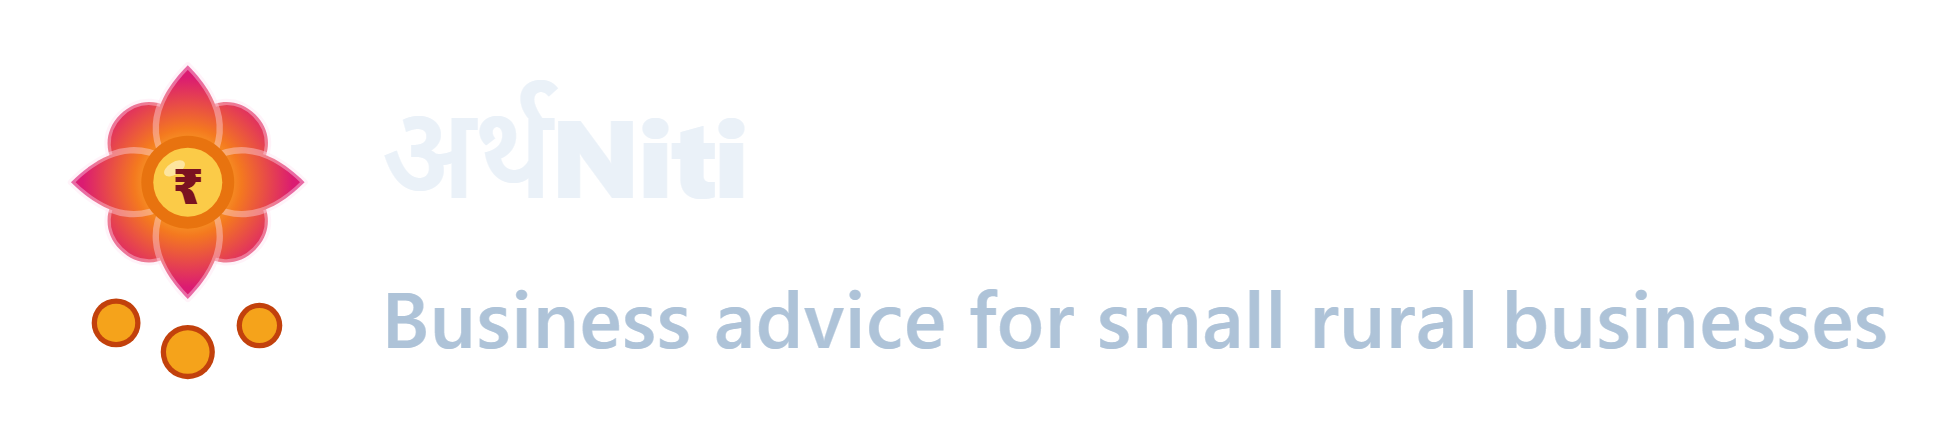
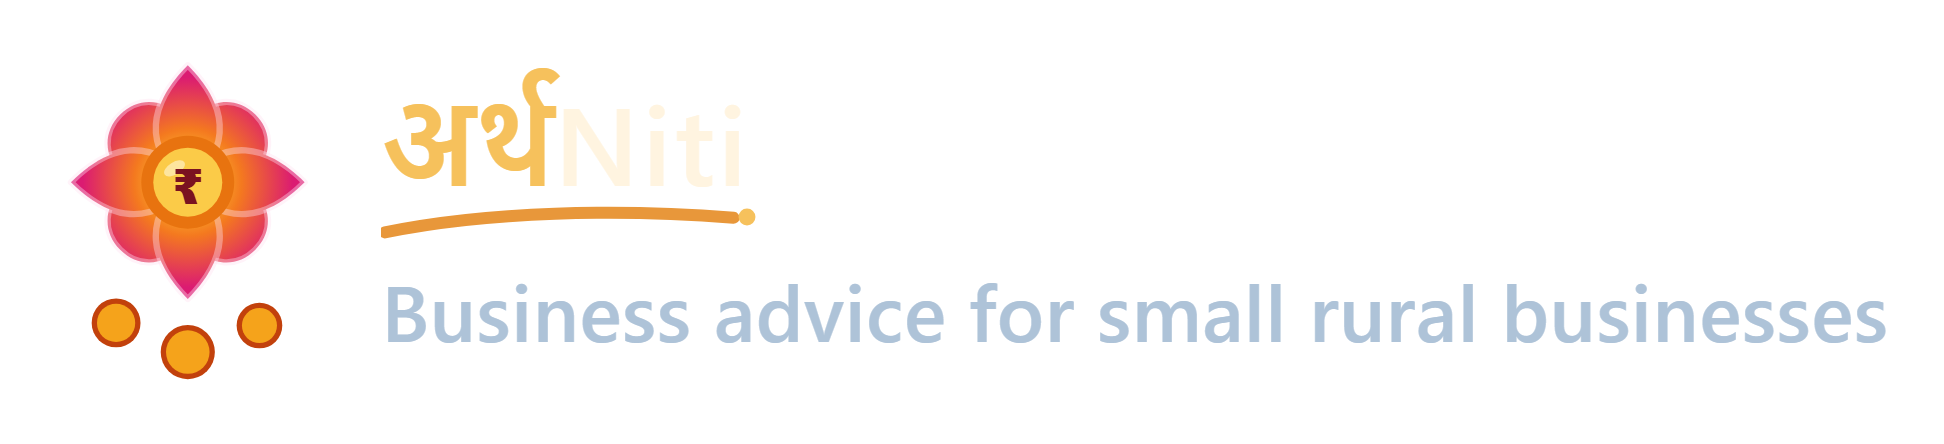
chore(brand): the owner's brand-asset files from 13 Sept
The brand-asset changes dated 13 Sept 2026, kept in their own commit so they
stay out of the others: tools/assetgen.mjs, frontend/src/assets/README.md, the
two regenerated lockups and the two arthniti-wordmark-on-*.png files.

Nothing else changes. With this commit the tree is the project as it stood at
8:03 AM ET on 26 Oct 2026, before any hackathon edit (867 tests in 38 files).

diff --git a/frontend/src/assets/README.md b/frontend/src/assets/README.md
@@ -45,7 +45,9 @@ tidiness.
 | `brand/arthniti-mark-dark-1024.png` | 1024×1329, transparent | dark posters |
 | `brand/arthniti-lockup-on-light.png` | 1949px wide, transparent — mark + name + tagline | a title slide on white |
 | `brand/arthniti-lockup-on-dark.png` | 1949px wide, transparent — same, light ink | a title slide on navy |
-| `brand/arthniti-wordmark-on-navy.png` | 1391px wide, on a `#08243F` plate | a header strip, a footer band |
+| `brand/arthniti-wordmark-on-light.png` | 2617×1251, transparent — dark ink on nothing | white or light slides, docs, print |
+| `brand/arthniti-wordmark-on-dark.png` | 2617×1251, transparent — warm light ink | dark slides, a navy band |
+| `brand/arthniti-wordmark-on-navy.png` | 1391px wide, on a `#08243F` plate | **superseded 13 Sept 2026** — see below |
 | `hero-backdrop.jpeg` | 735×386 — **a copy of the live backdrop** | showing the landing page in the deck |
 | `hero.png` | 343×361 | **nothing — see "Stale" below** |
 
@@ -98,22 +100,44 @@ inline swoosh, and that is **deliberately live text rather than an image** — i
 takes its colours from tokens, scales with `--ui-scale`, is read aloud by a
 screen reader, and does not blur on a projector.
 
-The PNG here exists because a deck is not the app. Its spec, if you need to set
-it by hand:
+The PNGs here exist because a deck is not the app. **There are two of them, one
+per colour case, and both are transparent.** Its spec, if you need to set it by
+hand:
 
 ```
 family          "Noto Sans", Inter, ui-sans-serif, system-ui, "Segoe UI", sans-serif
-अर्थ             #F6C15C   weight 800   no letter-spacing
-Niti            #FFF4E0   weight 500   letter-spacing 0.03em
-swoosh + dot    #E8973A / #F6C15C
-plate           #08243F
+                (inherited — there is no @font-face and no webfont link, so
+                 Devanagari resolves to whatever the machine has; Nirmala UI here)
+अर्थ             weight 800   no letter-spacing    light case #8A5A0A   dark case #F6C15C
+Niti            weight 500   letter-spacing 0.03em             #12233A             #FFF4E0
+swoosh          stroke-width 2 CSS px, round cap               #B86F10             #E8973A
+dot             r 2.2 in a 100x9 viewBox                       #8A5A0A             #F6C15C
+plate           none — see below
 ```
 
-Two notes that are easy to get wrong. The letter-spacing is on the **Latin half
-only** — applying it to the whole name spaces out the Devanagari grapheme
-clusters and pulls the र्थ conjunct apart. And the navy plate is **not
-optional**: `Niti` is a cream `#FFF4E0`, which is invisible on white. The utility
-strip is `#08243F` in *both* themes, which is why one file covers both.
+Three notes that are easy to get wrong.
+
+The letter-spacing is on the **Latin half only** — applying it to the whole name
+spaces out the Devanagari grapheme clusters and pulls the र्थ conjunct apart.
+
+**There is no plate any more, and the reason the old one existed is now the reason
+there are two files.** This section used to say a navy plate was *not optional*,
+because `Niti` was a cream `#FFF4E0` that is invisible on white and the utility
+strip the wordmark lived in was `#08243F` in *both* themes, so one file covered
+both. Every clause of that died on 11 Sept 2026 when the wordmark moved into the
+masthead: it sits on `var(--color-surface)` now, which flips, so the tokens gained
+a **light case** (`#8A5A0A` / `#12233A` / `#B86F10`) that is dark-on-light and
+needs no plate at all — and the two themes stopped sharing one rendering. Hence
+two transparent files. A dark slide *is* the plate for the dark case.
+`brand/arthniti-wordmark-on-navy.png` is the last plated export; it is kept so an
+older deck still resolves, and nothing should use it in a new one.
+
+**Do not scale the wordmark by raising `font-size`.** `.ui-wordmark-swoosh` is
+`height: 0.36rem; width: 100%` — tied to the **root** font size, not to the
+wordmark's own. So enlarging the name widens its box while the swoosh's stays
+5.76px tall, and the `viewBox="0 0 100 9"` under `preserveAspectRatio="none"`
+stretches non-uniformly: the curve flattens and the `r="2.2"` bead becomes an
+ellipse. Leave the CSS geometry at the shipped size and raise the *capture* scale.
 
 **The app loads no webfont.** It relies on Noto Sans being installed, falling
 back to Inter and then the system UI font. So on a laptop without Noto Sans the
@@ -170,7 +194,7 @@ cd frontend && npm run dev          # the lockup and wordmark come from the live
 node tools/assetgen.mjs       # from the repo root
 ```
 
-It produces the seven PNGs from **two different sources on purpose**:
+It produces the eight PNGs from **two different sources on purpose**:
 
 - The **mark** is rasterised from the two standalone SVGs in `brand/`. Going
   through the shipped file rather than through the React component is the point:
@@ -183,17 +207,36 @@ It produces the seven PNGs from **two different sources on purpose**:
   mean guessing at font metrics, and they would drift from the masthead the
   moment a token moved. Capturing the real thing cannot drift.
 
-If you have to redo it without the script: screenshot `.ui-brand` in the masthead
-at a high device-pixel ratio for the lockup, and `.ui-wordmark` — which is the
-masthead's product name as of 11 Sept 2026, having moved there from the utility
-strip — for the wordmark on its own. Two things that went wrong the first time and will again:
+If you have to redo it without the script: with `Emulation.setDefaultBackgroundColorOverride`
+at alpha 0, and every chrome surface (`html`, `body`, `.ui-shell`, `.ui-utilitybar`,
+`.ui-masthead`, `.ui-masthead-inner`, `.ui-brand`, `.ui-tricolour`, `.ui-topbar`,
+`.ui-navbar`, `.ui-breadcrumb`) forced to `background: transparent !important;
+border-color: transparent !important; box-shadow: none !important`, clip
+`Page.captureScreenshot` to **`.ui-brand`'s own box** for the lockup and to
+**`.ui-wordmark`'s own box** for the wordmark, once per theme. Four things that
+went wrong and will again:
 
+- **Clip to the element's own box; never to the container it happens to sit in.**
+  The old wordmark step grew `.ui-utilitybar`'s padding and clamped the clip to
+  that band — which stopped containing `.ui-wordmark` on 11 Sept 2026, and
+  *growing* the band pushed the masthead 68px further down, so the clamp resolved
+  to `bottom < top`: a negative-height clip. It failed silently, and it failed the
+  moment the subject moved rather than when the step was edited.
 - **Capture at a high scale, not by upscaling afterwards.** The lockup is only
-  ~305 CSS px wide in the masthead and the wordmark ~72 at its masthead size (~64
-at the smaller size it used in the strip). A screenshot re-rendered
-  at 6× or 12× is sharp because the mark is vector and the name is live text; the
+  ~305 CSS px wide in the masthead; **the wordmark is 63.9 × 25.2** (measured at
+  1440px, `en`, text size `md` — this line claimed ~72 until it was measured on
+  13 Sept 2026). So 6× for the lockup and **40× for the wordmark**. Both are
+  re-renders at that resolution, not upscales: the mark and the swoosh are vector
+  and the name is live text, so everything is re-rasterised from outlines. The
   same bitmap enlarged in an image editor is mush.
-- **The wordmark's navy plate is only 34px tall and the wordmark is 23px of it.**
-  There is nowhere for padding to go, so a padded clip runs straight past the
-  navy and pulls a slice of the masthead — including part of the lotus — into the
-  bottom of the file. Grow the strip first, then pad.
+- **`vector-effect="non-scaling-stroke"` DOES scale with the device scale factor**,
+  which is worth knowing because it reads like it would not. Measured at 40×, the
+  swoosh is **80 device px** against an 1131px ink height — exactly `2 × 40` — so
+  `--wordmark-swoosh-w: 2` keeps its proportion and the line is not a hairline.
+- **Pad the clip by ~5px, then re-crop off a measured alpha bounding box.** The
+  tricolour band sits ~11px under the brand block, so a generous clip margin pulls
+  a slice of it in — that is what put a grey hairline across the first lockup run.
+  And the element box is not a frame around the *ink*: अर्थ's matra reaches the top
+  of the span while the space under the swoosh is empty, so the raw 40× capture
+  came out 196/61/227/208. The shipped files are the alpha bbox plus a uniform
+  60px, i.e. 2617×1251 with all four corners at `(0,0,0,0)`.
